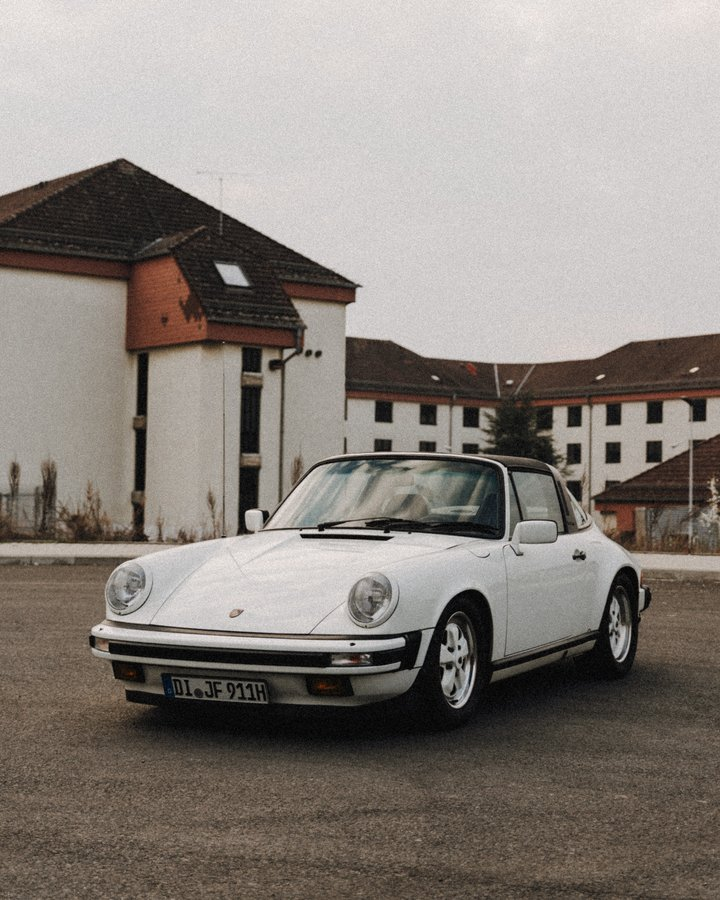
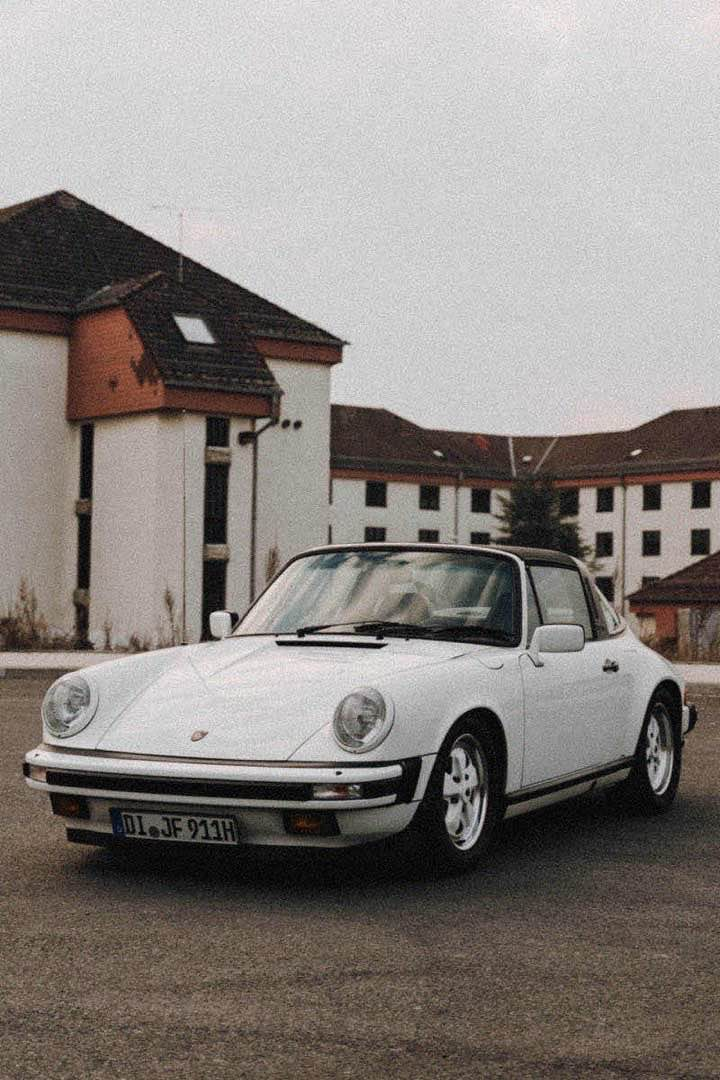
Hero-2 Mobile-Bild ausgetauscht und komprimiert, Sub-Text auf Mobile einzeilig

Changed region(s): [[0.0, 0.1556, 1.0, 1.0]]

diff --git a/src/styles/hero.css b/src/styles/hero.css
@@ -201,4 +201,8 @@
 @media (max-width: 700px) {
   .hero__scroll { display: none; }
   .hero__title { max-width: none; }
+  .hero__sub {
+    font-size: max(0.72rem, 3.2vw);
+    white-space: nowrap;
+  }
 }
